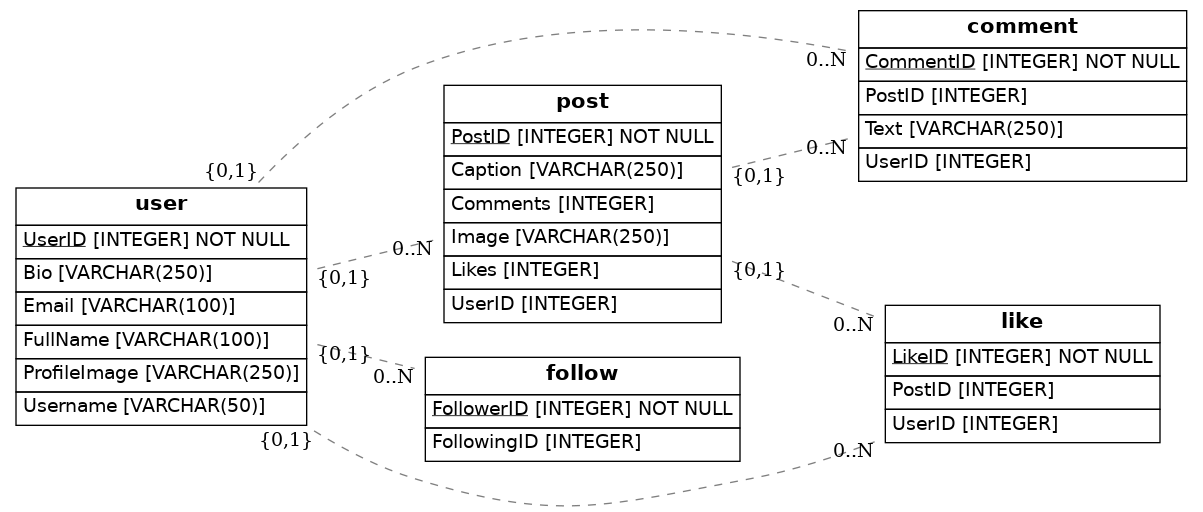
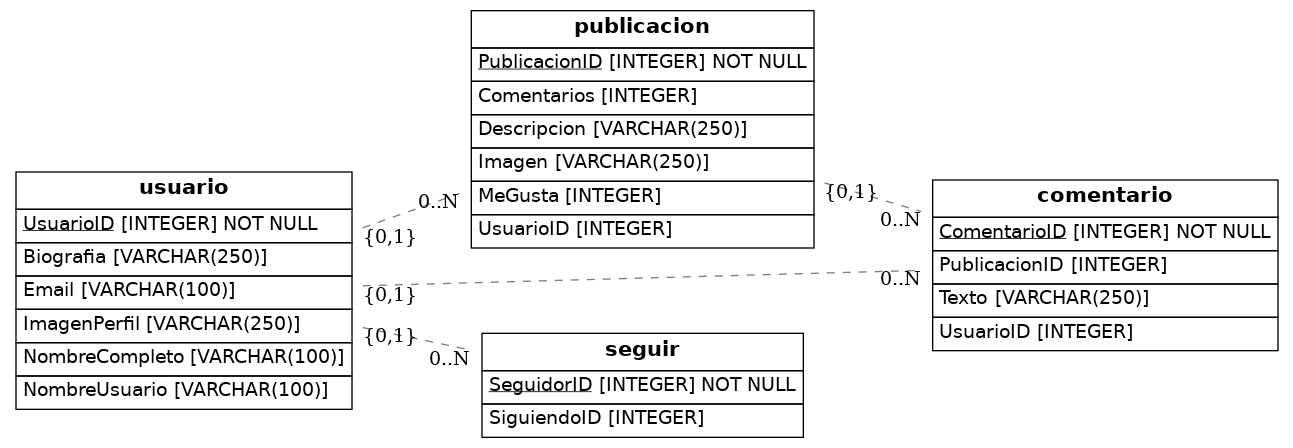
change

Changed region(s): [[0.0, 0.0, 1.0, 1.0], [0.6151, 0.9062, 0.6459, 0.9375]]

diff --git a/src/models.py b/src/models.py
@@ -7,41 +7,45 @@ from eralchemy2 import render_er
 
 Base = declarative_base()
 
-class User(Base):
-    __tablename__ = 'user'
-    UserID = Column(Integer, primary_key=True)
-    Username = Column(String(50))
+class Usuario(Base):
+    __tablename__ = 'usuario'
+    UsuarioID = Column(Integer, primary_key=True)
+    NombreUsuario = Column(String(100))
     Email = Column(String(100))
-    FullName = Column(String(100))
-    Bio = Column(String(250))
-    ProfileImage = Column(String(250))
+    NombreCompleto = Column(String(100))
+    Biografia = Column(String(250))
+    ImagenPerfil = Column(String(250))
+    publicaciones = relationship('Publicacion', back_populates='usuario')
+    comentarios = relationship('Comentario', back_populates='usuario')
+    seguidores = relationship('Seguir', foreign_keys='Seguir.SiguiendoID', back_populates='siguiendo')
+    siguiendo = relationship('Seguir', foreign_keys='Seguir.SeguidorID', back_populates='seguidor')
 
-class Post(Base):
-    __tablename__ = 'post'
-    PostID = Column(Integer, primary_key=True)
-    UserID = Column(Integer, ForeignKey('user.UserID'))
-    Image = Column(String(250))
-    Caption = Column(String(250))
-    Likes = Column(Integer)
-    Comments = Column(Integer)
+class Publicacion(Base):
+    __tablename__ = 'publicacion'
+    PublicacionID = Column(Integer, primary_key=True)
+    UsuarioID = Column(Integer, ForeignKey('usuario.UsuarioID'))
+    Imagen = Column(String(250))
+    Descripcion = Column(String(250))
+    MeGusta = Column(Integer)
+    Comentarios = Column(Integer)
+    usuario = relationship('Usuario', back_populates='publicaciones')
+    comentarios = relationship('Comentario', back_populates='publicacion')
 
-class Comment(Base):
-    __tablename__ = 'comment'
-    CommentID = Column(Integer, primary_key=True)
-    PostID = Column(Integer, ForeignKey('post.PostID'))
-    UserID = Column(Integer, ForeignKey('user.UserID'))
-    Text = Column(String(250))
+class Comentario(Base):
+    __tablename__ = 'comentario'
+    ComentarioID = Column(Integer, primary_key=True)
+    PublicacionID = Column(Integer, ForeignKey('publicacion.PublicacionID'))
+    UsuarioID = Column(Integer, ForeignKey('usuario.UsuarioID'))
+    Texto = Column(String(250))
+    usuario = relationship('Usuario', back_populates='comentarios')
+    publicacion = relationship('Publicacion', back_populates='comentarios')
 
-class Follow(Base):
-    __tablename__ = 'follow'
-    FollowerID = Column(Integer, primary_key=True)
-    FollowingID = Column(Integer, ForeignKey('user.UserID'))
-
-class Like(Base):
-    __tablename__ = 'like'
-    LikeID = Column(Integer, primary_key=True)
-    PostID = Column(Integer, ForeignKey('post.PostID'))
-    UserID = Column(Integer, ForeignKey('user.UserID'))
+class Seguir(Base):
+    __tablename__ = 'seguir'
+    SeguidorID = Column(Integer, primary_key=True)
+    SiguiendoID = Column(Integer, ForeignKey('usuario.UsuarioID'))
+    seguidor = relationship('Usuario', foreign_keys=[SeguidorID], back_populates='seguidores')
+    siguiendo = relationship('Usuario', foreign_keys=[SiguiendoID], back_populates='siguiendo')
 
     def to_dict(self):
         return {}
